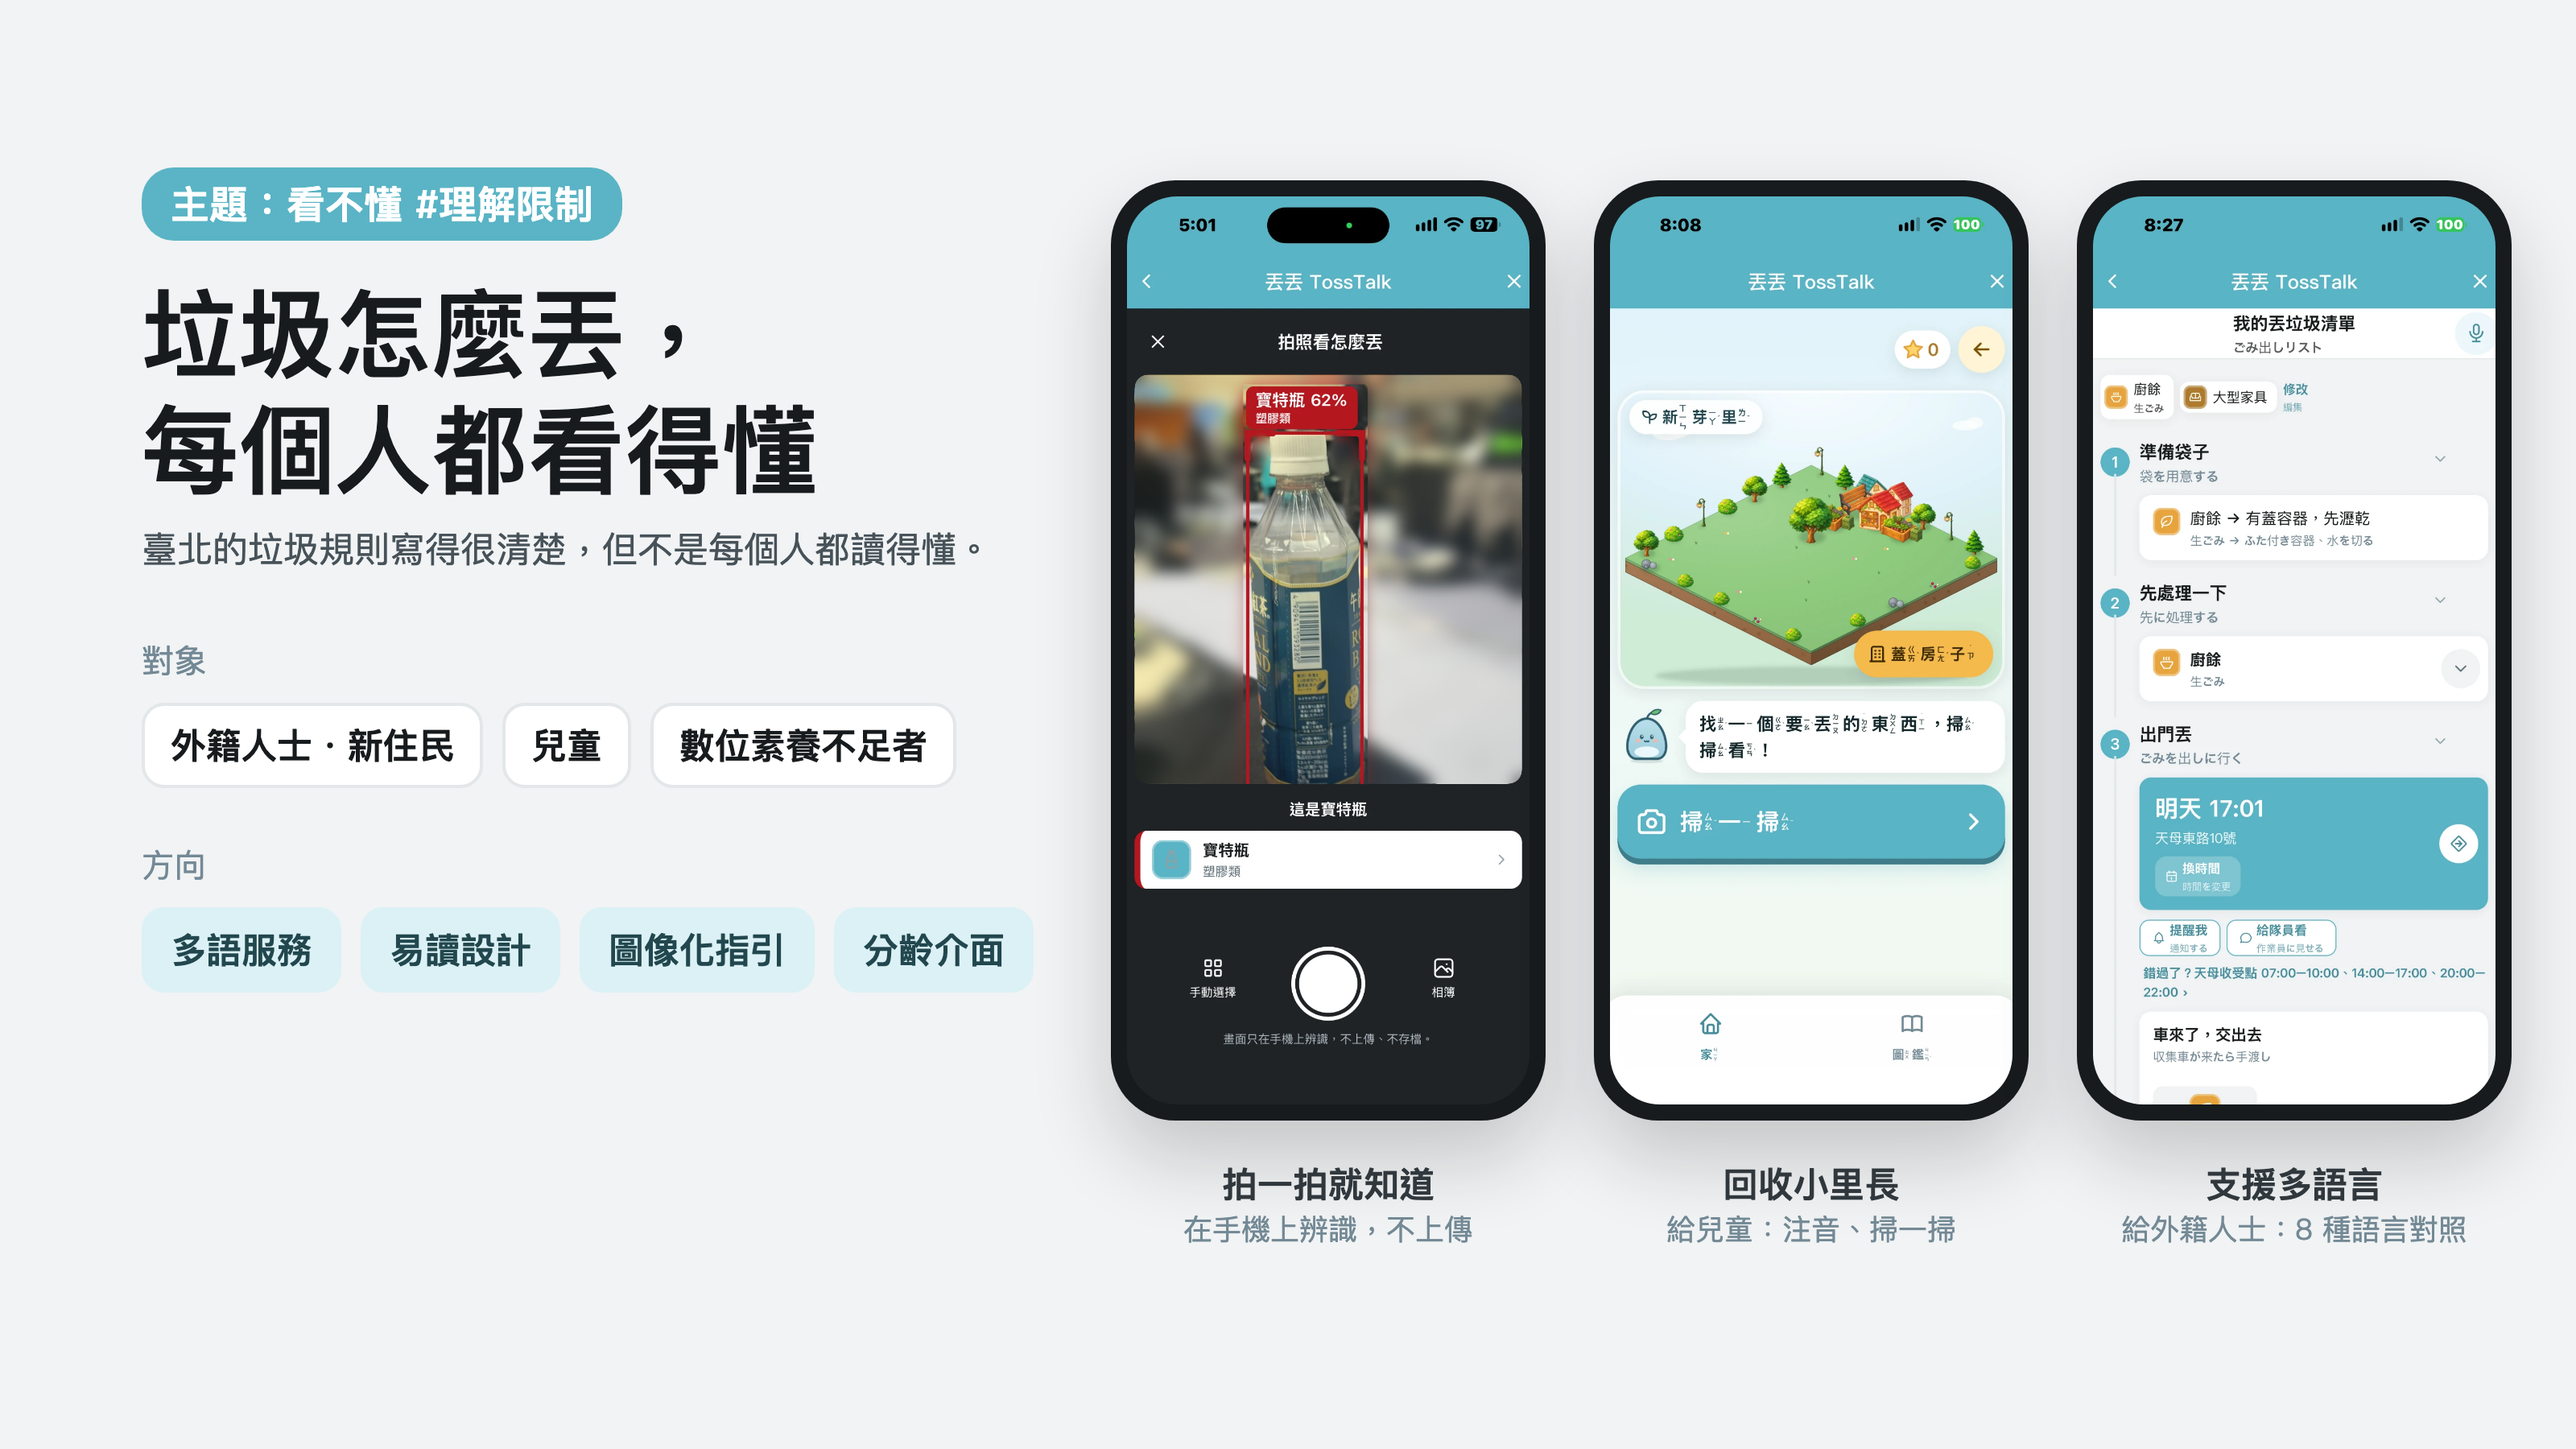
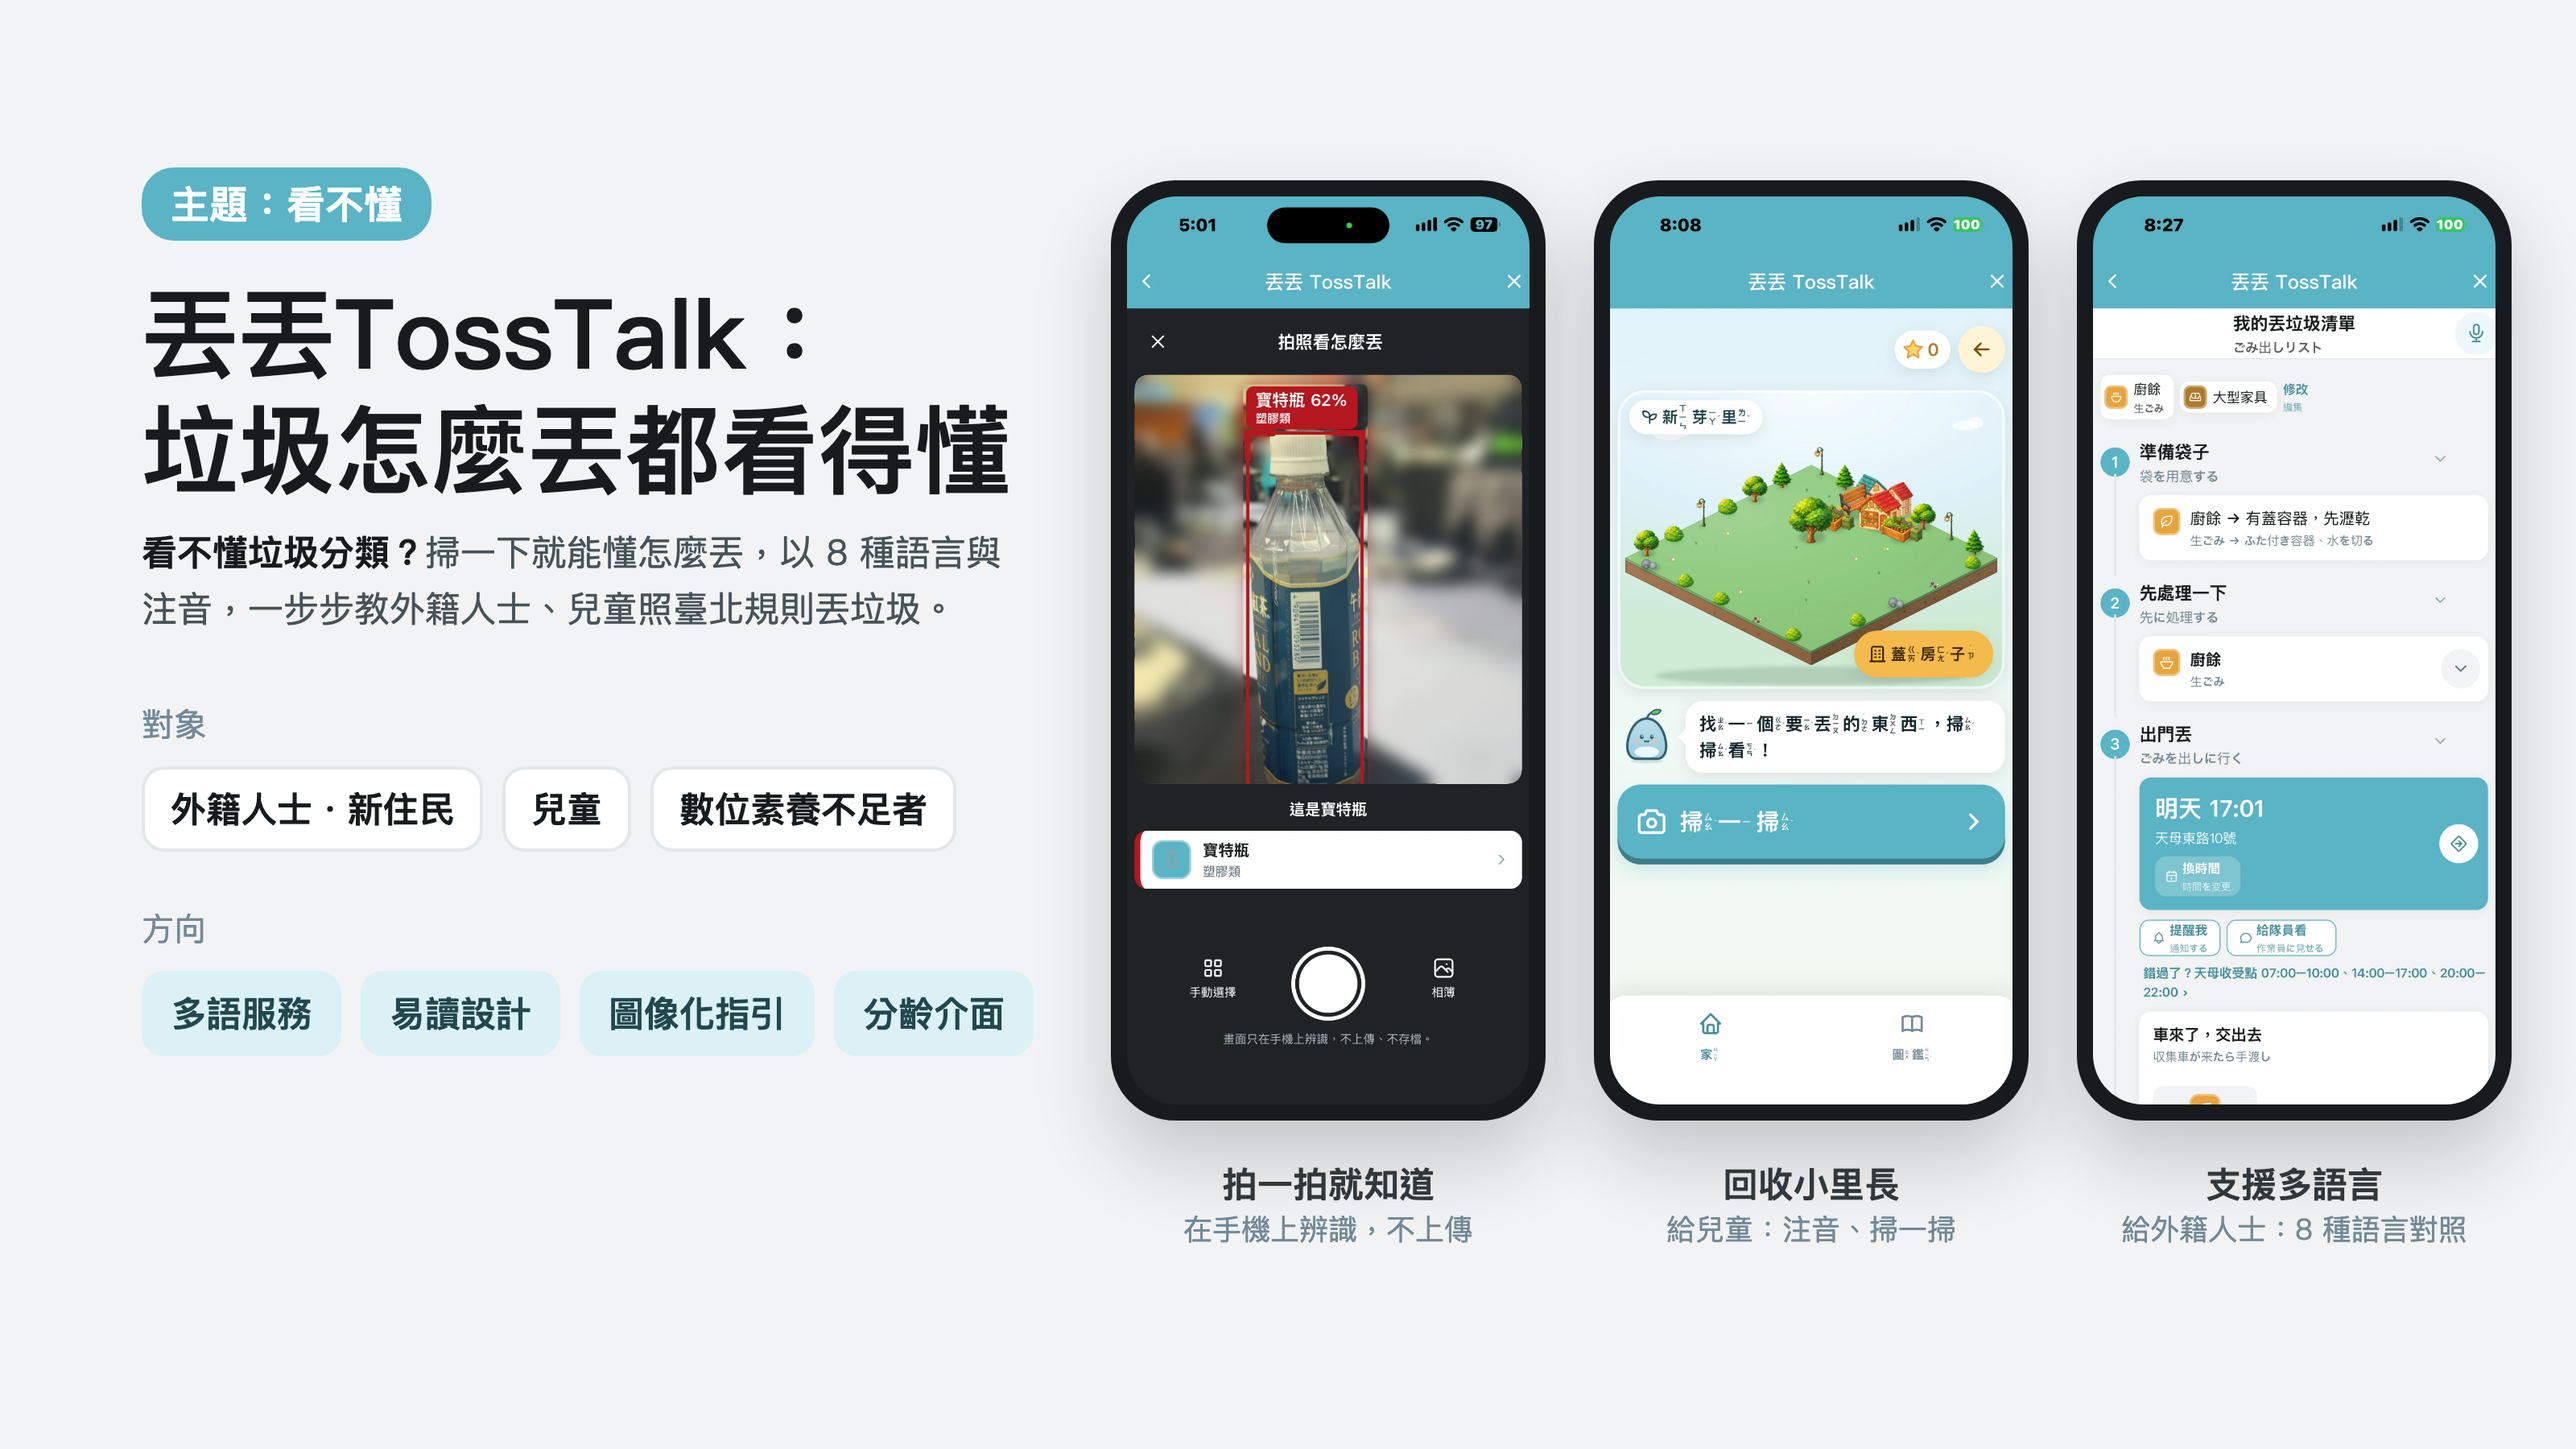
docs(readme): overview headline is the product name and one-line pitch
- Tag: 主題：看不懂 (no hashtag).
- Headline: 丟丟TossTalk：垃圾怎麼丟都看得懂
- Subtitle: 看不懂垃圾分類？掃一下就能懂怎麼丟，以 8 種語言與注音，
  一步步教外籍人士、兒童照臺北規則丟垃圾。
The image's alt text in README follows.

diff --git a/docs/readme/overview.html b/docs/readme/overview.html
@@ -10,7 +10,8 @@ body { margin: 0; width: 1600px; height: 900px; font-family: PF, sans-serif; col
 .left { padding: 104px 0 0 88px; }
 .tag { display: inline-block; padding: 6px 18px; border-radius: 20px; background: #5AB4C5; color: #fff; font-size: 24px; font-weight: 600; }
 h1 { margin: 22px 0 10px; font-size: 60px; line-height: 1.2; font-weight: 600; }
-.lead { margin: 0 0 40px; font-size: 22px; color: #475259; }
+.lead { margin: 0 40px 40px 0; font-size: 22px; line-height: 1.6; color: #475259; }
+.lead b { color: #171B1D; font-weight: 600; }
 .label { font-size: 20px; color: #738995; margin: 0 0 12px; }
 .row { display: flex; gap: 12px; flex-wrap: wrap; margin-bottom: 34px; }
 .chip { padding: 9px 16px; border-radius: 14px; background: #fff; font-size: 22px; font-weight: 600; border: 2px solid #E3E7E9; }
@@ -25,9 +26,9 @@ h1 { margin: 22px 0 10px; font-size: 60px; line-height: 1.2; font-weight: 600; }
 </style></head><body>
 <div class="wrap">
   <div class="left">
-    <span class="tag">主題：看不懂 #理解限制</span>
-    <h1>垃圾怎麼丟，<br>每個人都看得懂</h1>
-    <p class="lead">臺北的垃圾規則寫得很清楚，但不是每個人都讀得懂。</p>
+    <span class="tag">主題：看不懂</span>
+    <h1>丟丟TossTalk：<br>垃圾怎麼丟都看得懂</h1>
+    <p class="lead"><b>看不懂垃圾分類？</b>掃一下就能懂怎麼丟，以 8 種語言與注音，一步步教外籍人士、兒童照臺北規則丟垃圾。</p>
     <p class="label">對象</p>
     <div class="row"><span class="chip">外籍人士・新住民</span><span class="chip">兒童</span><span class="chip">數位素養不足者</span></div>
     <p class="label">方向</p>

diff --git a/README.md b/README.md
@@ -1,6 +1,6 @@
 # 丟丟 TossTalk（含兒童模式：回收小里長）
 
-![主題：看不懂 #理解限制。對象：外籍人士・新住民、兒童、數位素養不足者。方向：多語服務、易讀設計、圖像化指引、分齡介面。右邊是兩個服務的實際畫面。](docs/readme/overview.png)
+![丟丟TossTalk：垃圾怎麼丟都看得懂。看不懂垃圾分類？掃一下就能懂怎麼丟，以 8 種語言與注音，一步步教外籍人士、兒童照臺北規則丟垃圾。主題：看不懂。對象：外籍人士・新住民、兒童、數位素養不足者。方向：多語服務、易讀設計、圖像化指引、分齡介面。右邊是三張 iPhone 實機截圖。](docs/readme/overview.png)
 
 2026 臺北秋季程式設計節・城市通微服務大黑客松作品。本 repo 是台北通（TownPass）的 fork，在台北通裡加了一個服務「丟丟」，丟丟首頁的「兒童模式」切到回收小里長；原本的台北通說明在本頁最下方。
 
